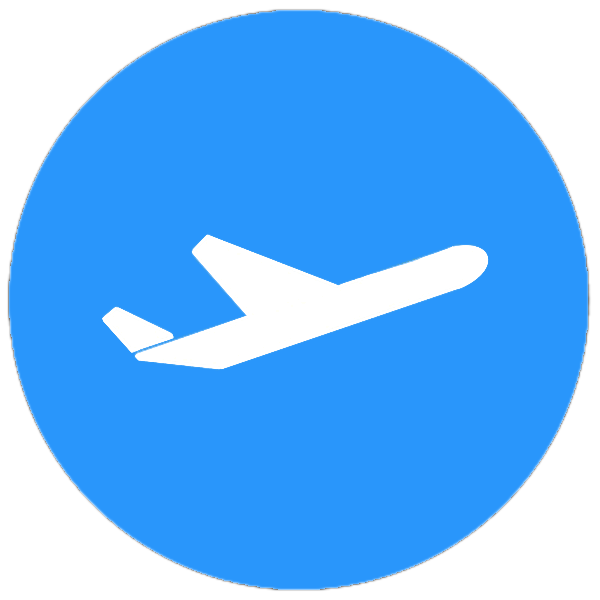
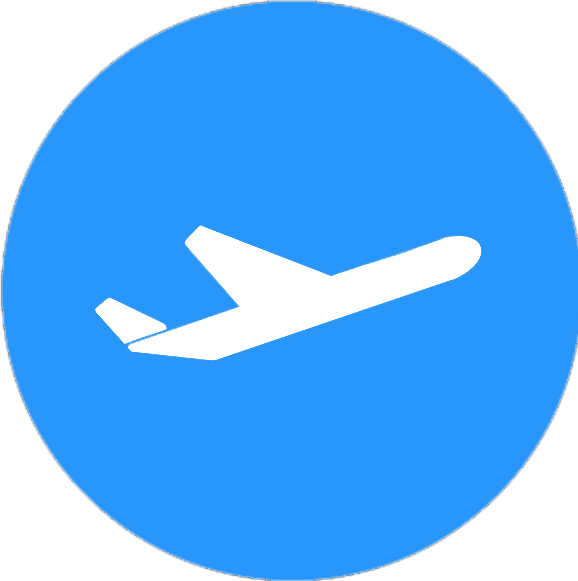
cutting aereo.png / aereo animation rotate / app.component.html redefined

diff --git a/src/app/app.component.html b/src/app/app.component.html
@@ -4,8 +4,12 @@
   <app-navbar></app-navbar>
   <div class="container">
     <app-jumbotron></app-jumbotron>
-    <app-hotel-card></app-hotel-card>
-    <router-outlet></router-outlet>
   </div>
+  <div class="container d-flex flex-wrap justify-content-start mt-5">
+    <app-hotel-card class="m-2"></app-hotel-card>
+    <app-hotel-card class="m-2"></app-hotel-card>
+    <app-hotel-card class="m-2"></app-hotel-card>
+  </div>
+    <router-outlet></router-outlet>
 </div>
 

diff --git a/src/app/features/search/jumbotron/jumbotron.component.scss b/src/app/features/search/jumbotron/jumbotron.component.scss
@@ -59,12 +59,25 @@
   background-repeat: no-repeat;
   background-size: cover;
   border-radius: 15px;
+  position: relative;
 }
 
 #aereo {
   width: 150px;
-  transform: translateY(5em);
   border: 5px solid white;
   border-radius: 50%;
-  //ritagliare png
+  animation: rotate 2s infinite;
+  position: absolute;
+  bottom: -22%;
 }
+
+@keyframes rotate {
+  0% {
+    transform: rotate(359deg);
+  }
+
+  100% {
+    transform: rotate(0deg);
+  }
+}
+
